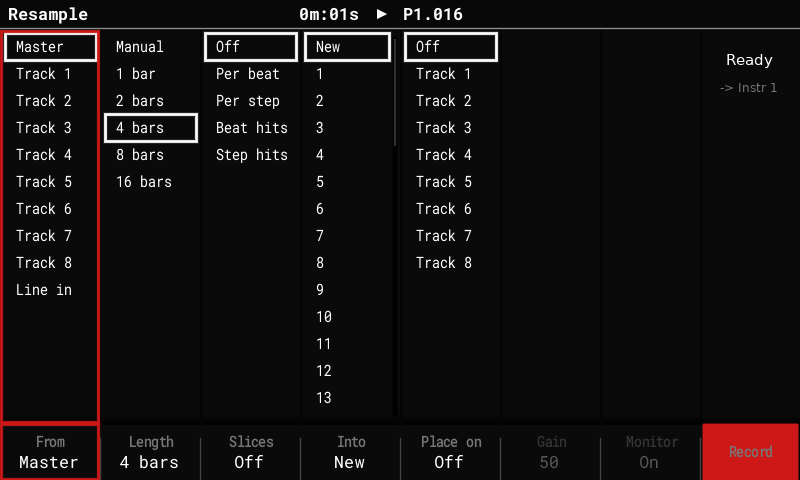
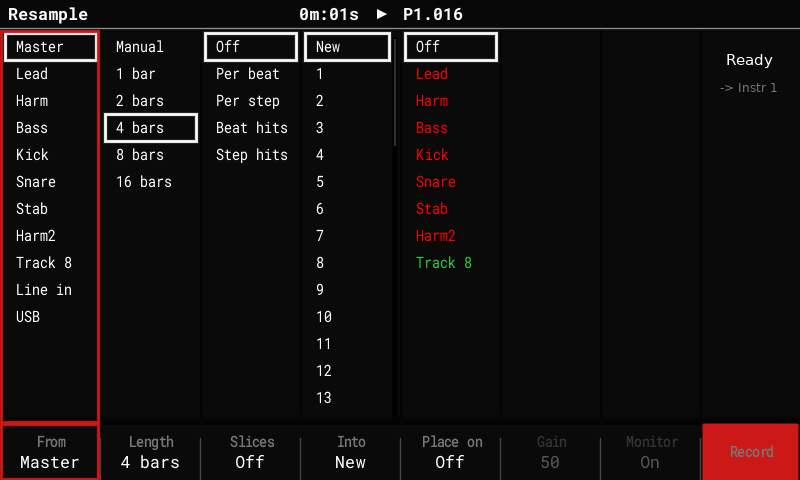
Resample: Place on shows free tracks green, used ones red; track names
Place on rows are green when the track has no notes in the current
pattern and red when it has (placing there mixes the take with them).
From and Place on list tracks 1-8 by their names (as the Pattern header),
"Track N" without one; the bottom bar too. ListView gets an optional
per-row text colour.

diff --git a/src/core/ui/screen_resample.cpp b/src/core/ui/screen_resample.cpp
@@ -42,6 +42,41 @@ void intoItem(void* ctx, int i, char* out, int cap) {
     else std::snprintf(out, size_t(cap), "%d", i);
 }
 
+// [I] Tracks 1-8 by their name (Pattern header), "Track N" without one.
+void trackLabel(const App& a, int t, char* out, int cap) {
+    if (!a.project.trackName(t, out, uint32_t(cap)) || !out[0]) std::snprintf(out, size_t(cap), "Track %d", t + 1);
+}
+
+// From: Master, the tracks, Line in, USB.
+void fromItem(void* ctx, int i, char* out, int cap) {
+    const App& a = *static_cast<const App*>(ctx);
+    if (i >= 1 && i <= 8) trackLabel(a, i - 1, out, cap);
+    else std::snprintf(out, size_t(cap), "%s", kFrom[i]);
+}
+
+// [I] Place on: a track with notes in the current pattern is red (placing
+// mixes the take with them), a free one green; Off keeps the list colour.
+struct PlaceRows {
+    const App* app;
+    const Pattern* pattern;
+    uint32_t free, used;
+};
+
+int32_t placeColour(void* ctx, int i) {
+    const PlaceRows& r = *static_cast<const PlaceRows*>(ctx);
+    if (i <= 0 || i > Sequencer::kVoiceTracks) return -1;
+    const Track& t = r.pattern->tracks[i - 1];
+    for (int s = 0; s <= int(t.lastStep); ++s)
+        if (t.steps[s].note != kNoteEmpty) return int32_t(r.used);
+    return int32_t(r.free);
+}
+
+void placeItem(void* ctx, int i, char* out, int cap) {
+    const PlaceRows& r = *static_cast<const PlaceRows*>(ctx);
+    if (i >= 1 && i <= 8) trackLabel(*r.app, i - 1, out, cap);
+    else std::snprintf(out, size_t(cap), "%s", kPlace[i]);
+}
+
 void list(Gfx& g, const Theme& th, int col, const char* const* items, int count, int sel) {
     wg::ListView v;
     v.x = kColX0 + 100 * col;
@@ -99,10 +134,16 @@ void ResampleScreen::refreshBar() {
     App& a = app_;
     const ResampleSettings& r = a.resampleCfg;
     b.clear();
-    b.set(0, "From", kFrom[r.source % ResampleSettings::kSources]);
+    char lbl[24];
+    fromItem(&a, r.source % ResampleSettings::kSources, lbl, sizeof(lbl));
+    b.set(0, "From", lbl);
     b.set(1, "Length", kLength[r.length % ResampleSettings::kLengths]);
     b.set(kColSlices, "Slices", kSlices[r.slices % ResampleSettings::kSlices]);
-    b.set(kColPlace, "Place on", kPlace[r.place % ResampleSettings::kPlaces]);
+    {
+        const PlaceRows rows{&a, &a.pattern(), 0, 0};
+        placeItem(const_cast<PlaceRows*>(&rows), r.place % ResampleSettings::kPlaces, lbl, sizeof(lbl));
+    }
+    b.set(kColPlace, "Place on", lbl);
     char v[12];
     if (r.into) std::snprintf(v, sizeof(v), "Instr %u", unsigned(r.into));
     else std::snprintf(v, sizeof(v), "New");
@@ -236,10 +277,32 @@ void ResampleScreen::draw(Gfx& g) {
     const Theme& th = ui_.th();
     ui_.drawTitle(g, "Resample");
     const ResampleSettings& r = a.resampleCfg;
-    list(g, th, 0, kFrom, ResampleSettings::kSources, r.source % ResampleSettings::kSources);
+    {
+        wg::ListView v;
+        v.x = kColX0;
+        v.w = wg::columnW();
+        v.count = ResampleSettings::kSources;
+        v.sel = r.source % ResampleSettings::kSources;
+        v.selStyle = wg::ListSel::kWhite;
+        v.item = fromItem;
+        v.ctx = &a;
+        wg::list(g, th, v);
+    }
     list(g, th, 1, kLength, ResampleSettings::kLengths, r.length % ResampleSettings::kLengths);
     list(g, th, kColSlices, kSlices, ResampleSettings::kSlices, r.slices % ResampleSettings::kSlices);
-    list(g, th, kColPlace, kPlace, ResampleSettings::kPlaces, r.place % ResampleSettings::kPlaces);
+    {
+        PlaceRows rows{&a, &a.pattern(), th.good & 0xFFFFFFu, th.alert & 0xFFFFFFu};
+        wg::ListView v;
+        v.x = kColX0 + 100 * kColPlace;
+        v.w = wg::columnW();
+        v.count = ResampleSettings::kPlaces;
+        v.sel = r.place % ResampleSettings::kPlaces;
+        v.selStyle = wg::ListSel::kWhite;
+        v.item = placeItem;
+        v.colour = placeColour;
+        v.ctx = &rows;
+        wg::list(g, th, v);
+    }
     {
         wg::ListView v;
         v.x = kColX0 + 100 * kColInto;

diff --git a/tests/resample_test.cpp b/tests/resample_test.cpp
@@ -539,6 +539,66 @@ TEST(resample_screen) {
     CHECK(!a.inputMonitorMuted);
 }
 
+// [I] Place on: free tracks are green, tracks with notes in the current
+// pattern red (placing there mixes the take with them); Off keeps the list
+// colour. The colours follow the pattern as it changes.
+TEST(resample_place_on_shows_used_tracks) {
+    Harness h;
+    App& a = *h.app;
+    setup(h);   // notes on track 1
+    a.pattern().tracks[3].steps[5].note = kNoteOff;   // a note off counts too
+    a.patternEdited();
+    a.seq.play(0);
+    h.tap(btn::SampleRecorder);
+    h.tap(btn::F6);
+    CHECK(a.ui.active() == kModResample);
+    ResampleScreen& r = *static_cast<ResampleScreen*>(a.ui.screen(kModResample));
+    // The Place on column's rows (x 415); From (x 15) lists the tracks too.
+    auto colourOf = [&](const char* name) {
+        char want[40];
+        std::snprintf(want, sizeof(want), "\"%s\"", name);
+        std::string colour;
+        for (const std::string& l : h.disp.last) {
+            if (l.compare(0, 6, "COLOR ") == 0) colour = l.substr(6);
+            else if (l.compare(0, 9, "TEXT 415 ") == 0 && l.find(want) != std::string::npos) return colour;
+        }
+        return std::string("none");
+    };
+    char good[8], alert[8];
+    std::snprintf(good, sizeof(good), "%06X", unsigned(a.ui.th().good & 0xFFFFFF));
+    std::snprintf(alert, sizeof(alert), "%06X", unsigned(a.ui.th().alert & 0xFFFFFF));
+    a.ui.dirty();
+    h.run(40);
+    CHECK(colourOf("Track 1") == alert);
+    CHECK(colourOf("Track 2") == good);
+    CHECK(colourOf("Track 4") == alert);
+    CHECK(colourOf("Track 8") == good);
+    CHECK(colourOf("Off") != good && colourOf("Off") != alert && colourOf("Off") != "none");
+    // Named tracks show their name in Place on and From (Pattern header names).
+    CHECK(a.project.setTrackName(2, "Bass"));
+    a.resampleCfg.place = 2;
+    a.resampleCfg.source = 2;
+    r.sel = 0;
+    h.enc(1);    // From: track 3
+    r.sel = 4;
+    h.enc(1);    // Place on: track 3
+    CHECK_EQ(a.resampleCfg.source, 3);
+    CHECK_EQ(a.resampleCfg.place, 3);
+    a.ui.dirty();
+    h.run(40);
+    CHECK(colourOf("Bass") == good);
+    CHECK(h.disp.lastHasText("Bass"));
+    CHECK_STR(a.ui.bar.label[4].bottom, "Bass");
+    CHECK_STR(a.ui.bar.label[0].bottom, "Bass");
+    // A note on track 2 turns it red.
+    a.pattern().tracks[1].steps[0].note = 48;
+    a.patternEdited();
+    a.ui.dirty();
+    h.run(40);
+    CHECK(colourOf("Track 2") == alert);
+    a.seq.stop();
+}
+
 // #9: the Sample Recorder's Source list routes the codec to a microphone
 // (Mic LG / Mic HG); the Resample screen must route Line in again.
 // Simulator: the mouse wheel scrolls the lists (From, Length, Slices, Into,

diff --git a/src/core/ui/widgets.cpp b/src/core/ui/widgets.cpp
@@ -657,7 +657,11 @@ void list(Gfx& g, const Theme& th, const ListView& v) {
             v.item(v.ctx, idx, buf, sizeof(buf));
             buf[sizeof(buf) - 1] = 0;
             const bool marked = v.marked && v.marked(v.ctx, idx);
-            const uint32_t tc = v.enabled ? th.slot(s + (marked ? 5 : 4)) : th.slot(slot::kBottomLabelOff);
+            uint32_t tc = v.enabled ? th.slot(s + (marked ? 5 : 4)) : th.slot(slot::kBottomLabelOff);
+            if (v.enabled && v.colour) {
+                const int32_t c = v.colour(v.ctx, idx);
+                if (c >= 0) tc = uint32_t(c);
+            }
             const int ty = v.y + 17 + kListRowH * r;
             // A tag takes the row's right end; the name column shrinks by it.
             const char* tag = v.tag ? v.tag(v.ctx, idx) : nullptr;

diff --git a/src/core/ui/widgets.h b/src/core/ui/widgets.h
@@ -297,6 +297,9 @@ struct ListView {
     // edge in the row's text colour; the name column ends before it (the
     // Sample Loader's '~' for a file that will stream from the card).
     const char* (*tag)(void* ctx, int index) = nullptr;
+    // [I] (may be null): the row's text colour (0xRRGGBB), or -1 for the
+    // set's (Resample Place on: free tracks green, used ones red).
+    int32_t (*colour)(void* ctx, int index) = nullptr;
     void* ctx = nullptr;
 };
 // Rows that fit: (h - 4) / 27 (14 for a 394-px list).

diff --git a/docs/guide/resampling.md b/docs/guide/resampling.md
@@ -18,11 +18,11 @@ slice or re-record.
 
 | Column (key) | Choices |
 |---|---|
-| **From** (F1) | **Master** (after the limiter; what the computer records over [USB audio](usb-audio.md), without the USB input), **Track 1–8** (the track's sample voice plus the synth notes it plays, dry), **Line in** (with the recorder's channel mode), **USB** (what the computer plays into the Tracker, [USB audio](usb-audio.md)). |
+| **From** (F1) | **Master** (after the limiter; what the computer records over [USB audio](usb-audio.md), without the USB input), **Track 1–8**, listed by their names (the track's sample voice plus the synth notes it plays, dry), **Line in** (with the recorder's channel mode), **USB** (what the computer plays into the Tracker, [USB audio](usb-audio.md)). |
 | **Length** (F2) | **Manual** (until you stop it, snapped to a bar) or 1, 2, 4, 8, 16 bars. |
 | **Slices** (F3) | **Off**, **Per beat**, **Per step** (equal slices), **Beat hits**, **Step hits** (a slice only where a new hit starts, so empty steps stay empty). |
 | **Into** (F4) | **New** (the next free instrument) or **instrument 1–48** (re-record into it). |
-| **Place on** (F5) | **Off** or **Track 1–8**: write the take onto a track. |
+| **Place on** (F5) | **Off** or **Track 1–8** (by name): write the take onto a track. A **green** track is free in the current pattern; a **red** one already has notes, which stay and cut the take off where they play. |
 | **Gain**, **Monitor** (F6, F7) | Line in only: the recorder's input gain and monitoring. |
 | **Record** (F8) | Arm: the take starts on the next bar (or with Play). Press again to stop at the next bar. |
 
